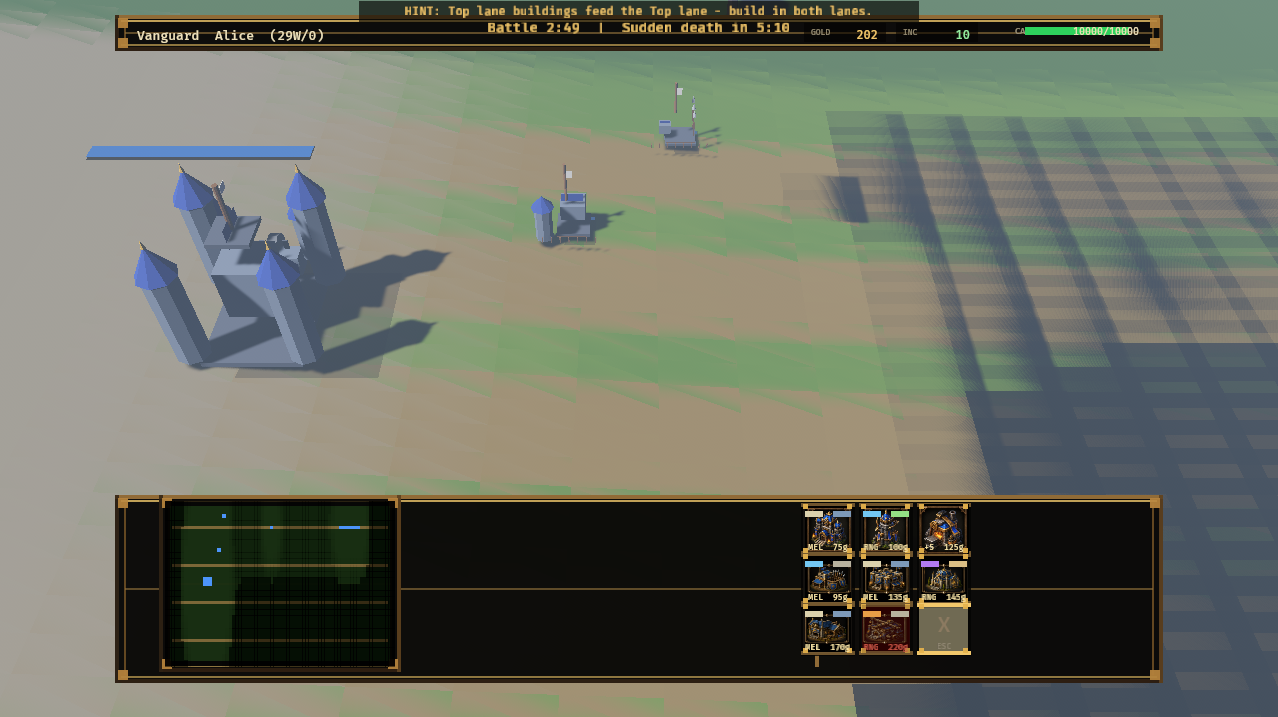
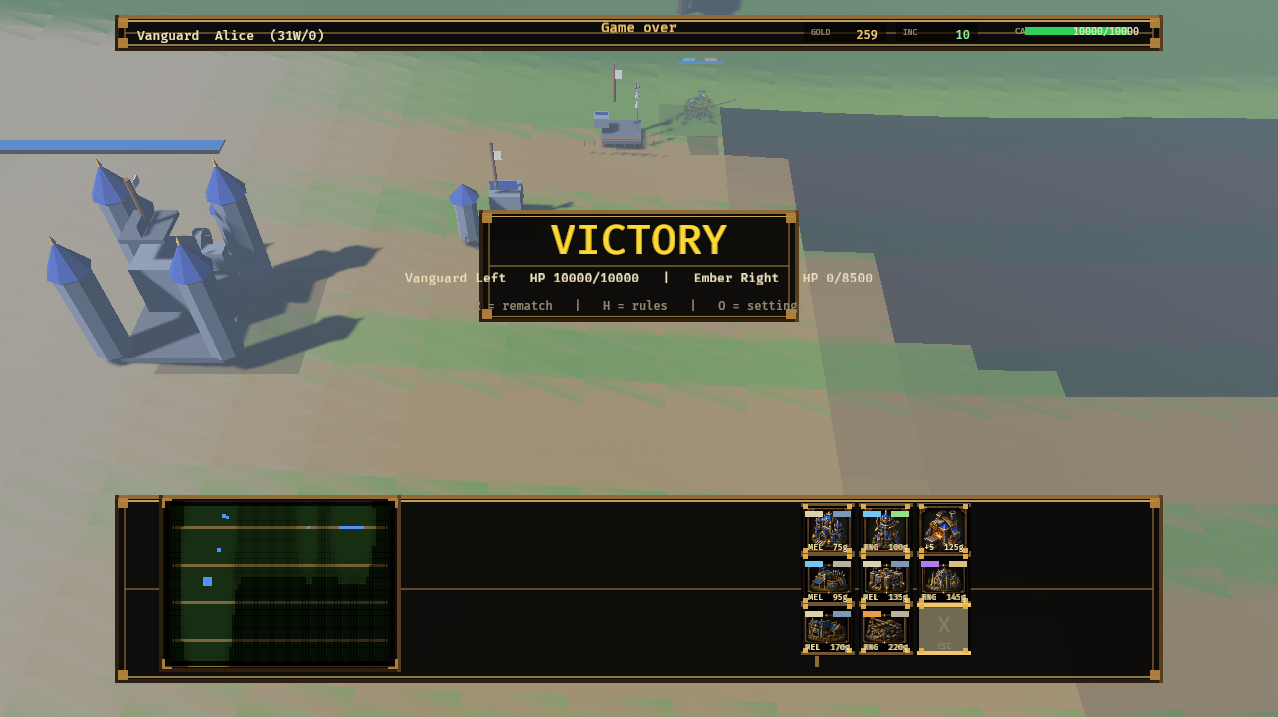
fog: single continuous conforming veil mesh (per-vertex alpha, no lattice) + buildings 1.25x
Replaces the 816-tile fog lattice (visible seams and height steps) with one
mesh built over the fog grid using shared smoothed corner heights; rebuilt
in place at most every 0.25 s. Fog now reads as obscured territory with a
soft explored boundary, per codex art-direction round 3

diff --git a/src/bin/client/render3d.rs b/src/bin/client/render3d.rs
@@ -1068,44 +1068,149 @@ pub(crate) fn sync_static_3d(
         }
     }
 
-    // Fog tiles live outside the statics key: spawned once per match,
-    // mutated in place by `update_fog_tiles_3d`.
+    // Fog is ONE continuous conforming mesh (plan §3.3): no per-tile lattice.
     let want_fog = state.snapshot.is_some() && net.team.is_some();
-    if want_fog && registry.fog_tiles.is_empty() {
-        let mut res = Res3d {
-            meshes: &mut meshes,
-            materials: &mut materials,
-            assets: &mut world_assets,
-        };
-        let tile_w = MAP_W / FOG_COLUMNS as f32;
-        let tile_h = MAP_H / FOG_ROWS as f32;
-        let mesh = res.flat_quad(tile_w + 14.0, tile_h + 12.0);
-        for row in 0..FOG_ROWS {
-            for col in 0..FOG_COLUMNS {
-                let pos = fog_cell_center(col, row);
-                let tile = commands
-                    .spawn((
-                        Mesh3d(mesh.clone()),
-                        MeshMaterial3d(res.flat_mat(Color::srgba(0.0, 0.0, 0.0, 0.88))),
-                        Transform::from_translation(Vec3::new(
-                            pos.x,
-                            // Average the four corners so tiles hug slopes.
-                            (ground_height(pos.x - 45.0, pos.y - 25.0)
-                                + ground_height(pos.x + 45.0, pos.y - 25.0)
-                                + ground_height(pos.x - 45.0, pos.y + 25.0)
-                                + ground_height(pos.x + 45.0, pos.y + 25.0))
-                                * 0.25
-                                + 2.2,
-                            -pos.y,
-                        )),
-                        Visibility::Hidden,
-                        FogTile { col, row },
-                    ))
-                    .id();
-                registry.fog_tiles.push(tile);
+    if want_fog && registry.fog_entity.is_none() {
+        let snapshot = state.snapshot.as_ref().expect("snapshot for fog");
+        let mesh = build_fog_mesh(&fog, snapshot, net.team);
+        let handle = meshes.add(mesh);
+        registry.fog_mesh_handle = Some(handle.clone());
+        let material = materials.add(StandardMaterial {
+            base_color: Color::WHITE,
+            unlit: true,
+            alpha_mode: AlphaMode::Blend,
+            cull_mode: None,
+            ..default()
+        });
+        let entity = commands
+            .spawn((
+                Mesh3d(handle),
+                MeshMaterial3d(material),
+                Transform::IDENTITY,
+                NotShadowCaster,
+                FogMesh,
+            ))
+            .id();
+        registry.fog_entity = Some(entity);
+    } else if !want_fog {
+        if let Some(entity) = registry.fog_entity.take() {
+            commands.entity(entity).despawn();
+            registry.fog_mesh_handle = None;
+        }
+    }
+}
+
+/// Marker for the continuous fog veil mesh.
+#[derive(Component)]
+pub(crate) struct FogMesh;
+
+/// One continuous fog veil: a conforming mesh over the fog grid with
+/// per-vertex alpha (visible = transparent, explored = dim, unknown = dark).
+/// Shared corner vertices make it seamless — no tile lattice.
+fn build_fog_mesh(fog: &FogMemory, state: &MatchSnapshot, team: Option<Team>) -> Mesh {
+    let cols = FOG_COLUMNS;
+    let rows = FOG_ROWS;
+    let tw = MAP_W / cols as f32;
+    let th = MAP_H / rows as f32;
+    let x0 = -MAP_W * 0.5;
+    let z0 = -MAP_H * 0.5;
+
+    // Grid points: (cols+1) x (rows+1) with smoothed heights.
+    let mut heights = vec![0.0_f32; (cols + 1) * (rows + 1)];
+    for gz in 0..=rows {
+        for gx in 0..=cols {
+            let x = x0 + gx as f32 * tw;
+            let z = z0 + gz as f32 * th;
+            let y2d = -z;
+            heights[gz * (cols + 1) + gx] = (ground_height(x - 30.0, y2d - 20.0)
+                + ground_height(x + 30.0, y2d - 20.0)
+                + ground_height(x - 30.0, y2d + 20.0)
+                + ground_height(x + 30.0, y2d + 20.0))
+                * 0.25
+                + 1.6;
+        }
+    }
+
+    let mut positions: Vec<[f32; 3]> = Vec::new();
+    let mut colors: Vec<[f32; 4]> = Vec::new();
+    let mut push_corner = |positions: &mut Vec<[f32; 3]>,
+                           colors: &mut Vec<[f32; 4]>,
+                           gx: usize,
+                           gz: usize,
+                           alpha: f32| {
+        positions.push([
+            x0 + gx as f32 * tw,
+            heights[gz * (cols + 1) + gx],
+            z0 + gz as f32 * th,
+        ]);
+        colors.push([0.0, 0.0, 0.004, alpha]);
+    };
+    for gz in 0..rows {
+        for gx in 0..cols {
+            let pos = fog_cell_center(gx, gz);
+            let reveal = world_reveal_strength(state, team.unwrap_or(Team::Left), pos);
+            let explored = fog.explored[fog_index(gx, gz)];
+            let alpha = if reveal > 0.35 {
+                0.0
+            } else if reveal > 0.0 {
+                0.30 * (1.0 - reveal)
+            } else if explored {
+                0.30
+            } else {
+                0.88
+            };
+            if alpha <= 0.015 {
+                continue;
+            }
+            let c00 = (gx, gz);
+            let c10 = (gx + 1, gz);
+            let c11 = (gx + 1, gz + 1);
+            let c01 = (gx, gz + 1);
+            for corner in [c00, c10, c11, c00, c11, c01] {
+                push_corner(&mut positions, &mut colors, corner.0, corner.1, alpha);
             }
         }
     }
+
+    Mesh::new(
+        PrimitiveTopology::TriangleList,
+        RenderAssetUsages::MAIN_WORLD | RenderAssetUsages::RENDER_WORLD,
+    )
+    .with_inserted_attribute(Mesh::ATTRIBUTE_POSITION, positions)
+    .with_inserted_attribute(Mesh::ATTRIBUTE_COLOR, colors)
+}
+
+/// Rebuild the fog mesh in place when the reveal state changes (throttled).
+#[allow(clippy::too_many_arguments)]
+pub(crate) fn update_fog_mesh_3d(
+    mut meshes: ResMut<Assets<Mesh>>,
+    registry: Res<SceneRegistry>,
+    fog: Res<FogMemory>,
+    state: Res<SnapshotState>,
+    net: Res<ClientNet>,
+    time: Res<Time>,
+    mut next_rebuild: Local<f32>,
+) {
+    if registry.fog_entity.is_none() {
+        return;
+    }
+    if !fog.is_changed() && !state.is_changed() {
+        return;
+    }
+    if time.elapsed_secs() < *next_rebuild {
+        return;
+    }
+    *next_rebuild = time.elapsed_secs() + 0.25;
+    let Some(handle) = registry.fog_mesh_handle.as_ref() else {
+        return;
+    };
+    let Some(mesh) = meshes.get_mut(handle) else {
+        return;
+    };
+    let Some(snapshot) = state.snapshot.as_ref() else {
+        return;
+    };
+    *mesh = build_fog_mesh(&fog, snapshot, net.team);
 }
 
 fn spawn_zone_tiles_3d(
@@ -1184,7 +1289,7 @@ fn spawn_building_3d(
         commands.spawn((
             SceneRoot(handle.clone()),
             Transform::from_translation(base + Vec3::Y * 4.0)
-                .with_scale(Vec3::splat(if scaffold { 0.62 } else { 1.0 })),
+                .with_scale(Vec3::splat(if scaffold { 0.78 } else { 1.25 })),
             StaticScene,
         ));
     } else {
@@ -1739,56 +1844,6 @@ pub(crate) fn update_object_highlight_3d(
 }
 
 // ---- Fog tiles ----
-
-pub(crate) fn update_fog_tiles_3d(
-    state: Res<SnapshotState>,
-    fog: Res<FogMemory>,
-    net: Res<ClientNet>,
-    registry: Res<SceneRegistry>,
-    mut materials: ResMut<Assets<StandardMaterial>>,
-    mut world_assets: ResMut<World3dAssets>,
-    mut tiles: Query<(
-        &FogTile,
-        &mut MeshMaterial3d<StandardMaterial>,
-        &mut Visibility,
-    )>,
-) {
-    if registry.fog_tiles.is_empty() {
-        return;
-    }
-    let (Some(snapshot), Some(team)) = (&state.snapshot, net.team) else {
-        return;
-    };
-    if !state.is_changed() && !fog.is_changed() {
-        return;
-    }
-    for (tile, mut mat, mut visibility) in &mut tiles {
-        let pos = fog_cell_center(tile.col, tile.row);
-        let reveal = world_reveal_strength(snapshot, team, pos);
-        let explored = fog.explored[fog_index(tile.col, tile.row)];
-        let (alpha, hidden) = if reveal > 0.45 {
-            (0.0, true)
-        } else if reveal > 0.0 {
-            (0.20 * (1.0 - reveal), false)
-        } else if explored {
-            (0.30, false)
-        } else {
-            (0.88, false)
-        };
-        if hidden {
-            *visibility = Visibility::Hidden;
-            continue;
-        }
-        *visibility = Visibility::Inherited;
-        // Alpha is quantized so the shared-material cache stays small.
-        let alpha = (alpha * 10.0).round() / 10.0;
-        **mat = cached_flat_mat(
-            &mut materials,
-            &mut world_assets,
-            Color::srgba(0.004, 0.006, 0.009, alpha),
-        );
-    }
-}
 
 // ---- Placement preview ----
 

diff --git a/src/bin/client/scene.rs b/src/bin/client/scene.rs
@@ -536,23 +536,18 @@ pub(crate) fn despawn_highlight(commands: &mut Commands, registry: &mut SceneReg
 
 /// Fog tile colors mutate in place on snapshot/fog changes; tiles themselves
 /// are spawned once per match in `sync_static_scene`.
-#[allow(clippy::too_many_arguments)]
 pub(crate) fn update_fog_tiles(
     state: Res<SnapshotState>,
     fog: Res<FogMemory>,
     net: Res<ClientNet>,
     registry: Res<SceneRegistry>,
     mut sprites: Query<(&FogTile, &mut Sprite)>,
-    mut tiles3d: Query<(
-        &FogTile,
-        &mut MeshMaterial3d<StandardMaterial>,
-        &mut Visibility,
-    )>,
-    mut materials: ResMut<Assets<StandardMaterial>>,
-    mut world_assets: ResMut<World3dAssets>,
+    mut meshes: ResMut<Assets<Mesh>>,
+    time: Res<Time>,
+    mut next_rebuild: Local<f32>,
 ) {
     if is_3d() {
-        update_fog_tiles_3d(state, fog, net, registry, materials, world_assets, tiles3d);
+        update_fog_mesh_3d(meshes, registry, fog, state, net, time, next_rebuild);
         return;
     }
     if registry.fog_tiles.is_empty() {

diff --git a/src/bin/client/main.rs b/src/bin/client/main.rs
@@ -548,6 +548,8 @@ struct UnitVisual {
 struct SceneRegistry {
     units: HashMap<u64, UnitVisual>,
     fog_tiles: Vec<Entity>,
+    fog_entity: Option<Entity>,
+    fog_mesh_handle: Option<Handle<Mesh>>,
     highlight: Option<Entity>,
     highlight_source: Option<HighlightSource>,
     statics_key: u64,

diff --git a/README.md b/README.md
@@ -9,7 +9,7 @@ Castle Lanes is a native desktop Rust/Bevy game inspired by the builder-autobatt
 - WC3-style placement: grid appears only while building, ghost preview with valid/invalid tint, animated build circle, scaffold state on fresh buildings.
 - Same deterministic sim and protocol as v0.1 — replays, matchmaking, and team play unchanged.
 
-![Vanguard army and buildings on the 3D battlefield](docs/screenshots/m0_battle_3d.png)
+![Vanguard army and buildings on the 3D battlefield](docs/screenshots/battle_3d_castle.png)
 
 More views — the HUD, lobby, and overlays all fit a 1600×900 window without scrolling:
 
